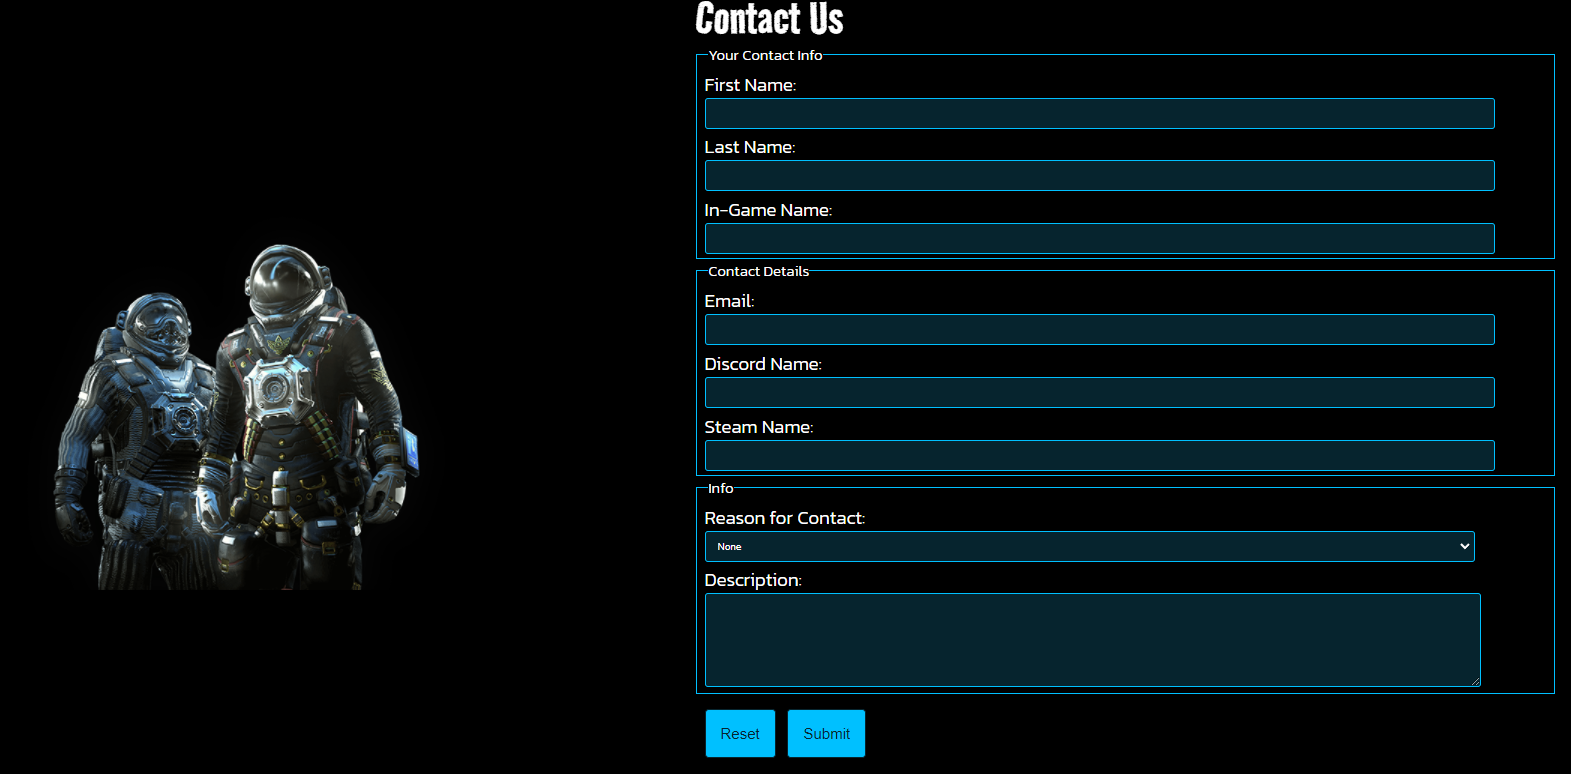
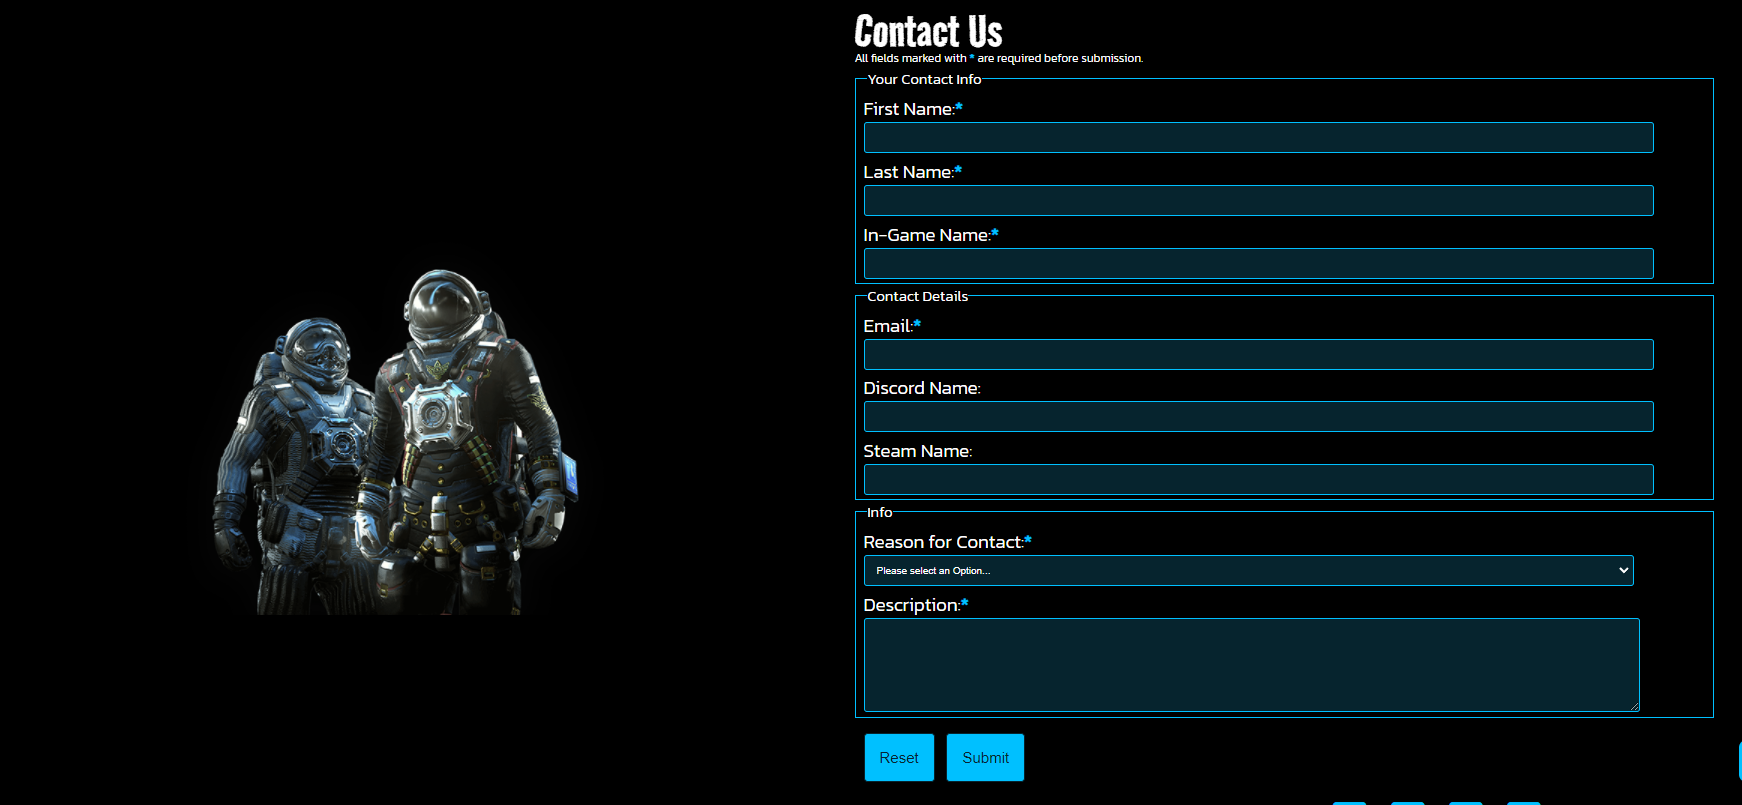
Modify Testing.md file and uploaded new images

diff --git a/TESTING.md b/TESTING.md
@@ -3,6 +3,9 @@
 Below is a list of test that have been carried out with screenshots.
 
 ### Browser Compatibility
+
+The below browsers have been tested with the deployed site.\
+
 __Google Chrome__ - Fullscreen\
 ![Google Chrome](documentation/testing/google-chrome.png)
 
@@ -19,6 +22,7 @@ __Apple Safari App__ - Phone Screen\
 ![Apple Safari](documentation/testing/safari.png)
 
 ### Code Validation
+
 __HTML__
   - No errors were returned when passing through the official W3C Validator\
   [W3C validator - Index](https://validator.w3.org/nu/?doc=https://robcole-dev.github.io/Cadius-Gaming/index.html)\
@@ -36,6 +40,7 @@ __CSS__
   ![Css Screenshot](documentation/testing/css-valid.png)
 
 ### Responsiveness
+
 __Full Screen - 1920x1080__
 ![Full Screen](documentation/testing/fullscreen.png)
 

diff --git a/README.md b/README.md
@@ -106,7 +106,7 @@ Below are a list of key features and future features.
 
 ![Footer](documentation/readme/footer.png)
 
-- __The Sign Up Page__
+- __The Contact Us Page__
 
   - This page will allow the user to get in touch with the staff at Cadius Gaming. This could be for help on how to get into gaming, how to join the Cadius Gaming community or just technical issues.
 
